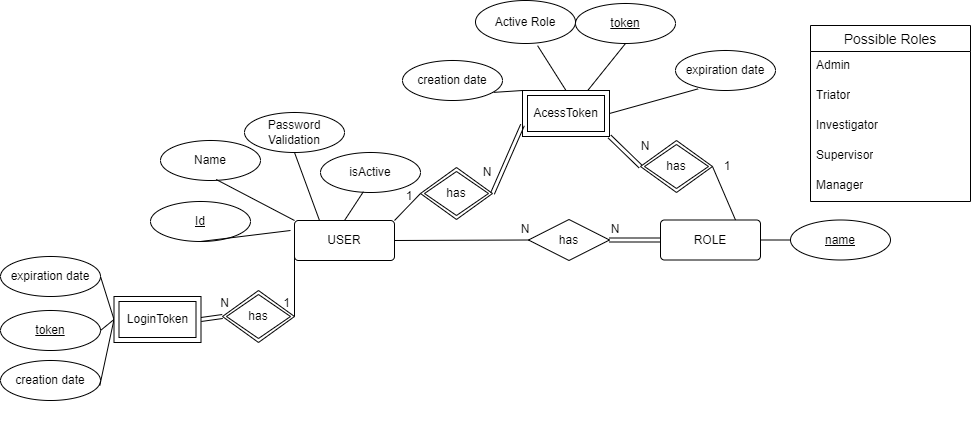
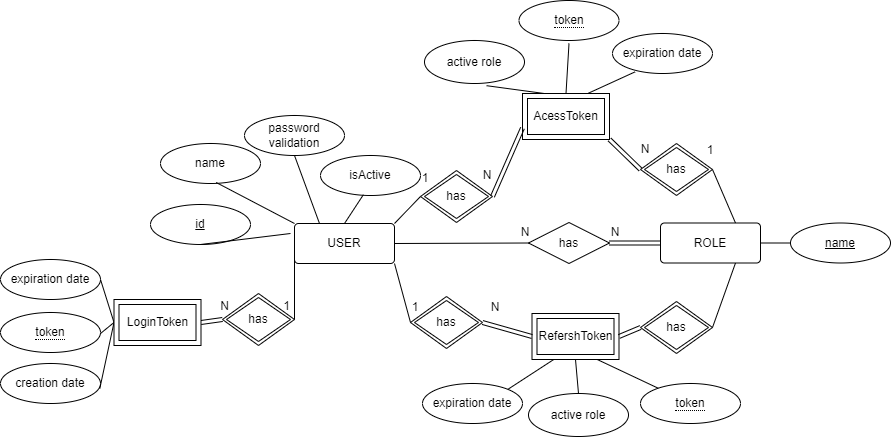
Modelo e dados finalizado e Estado da Arte

diff --git a/Docs/fase-beta-relatorio/solucao.tex b/Docs/fase-beta-relatorio/solucao.tex
@@ -3,12 +3,13 @@
 %
 \chapter{Solu\c{c}\~{a}o Proposta} \label{cap:solucao}
 
-Este capítulo está organizado em quatro secções onde se descreve o trabalho relacionado.
+Este capítulo apresenta detalhadamente a arquitetura, o modelo de dados e os detalhes de implementação da solução tecnológica desenvolvida. 
+O conteúdo encontra-se estruturado em quatro secções principais: a Secção 2.1 descreve a arquitetura geral do sistema baseada num modelo \textit{client-server} em camadas; a Secção 2.2 detalha o modelo de dados conceptual (Entidade-Associação) e as regras de negócio automatizadas na base de dados; a Secção 2.3 aborda a componente de \textit{backend}, focando-se no desenvolvimento com \textit{Spring Boot} e nos mecanismos de segurança e controlo de acessos (RBAC) com \textit{Spring Security}; por fim, a Secção 2.4 expõe a estrutura do servidor \textit{frontend} em \textit{React}, os seus componentes de proteção de rotas e as bibliotecas externas integradas.
 
 \section{Arquitetura}
 
-A Figura~\ref{fig:arquitetura_sistema} apresenta a arquitetura geral da aplicação desenvolvida no âmbito deste projeto. A solução foi concebida segundo um modelo de arquitetura \textit{client-server}, estruturado em diferentes camadas lógicas, de forma a garantir uma clara separação de responsabilidades e uma melhor organização do sistema.
-\textcolor{blue}{Deveriamos fazer referencia ao Vite e ao Gradle ?}
+Na Figura~\ref{fig:arquitetura_sistema} representa-se a arquitetura geral da aplicação desenvolvida no âmbito deste projeto. A solução foi concebida segundo um modelo de arquitetura \textit{client-server}, estruturado em diferentes camadas lógicas, de forma a garantir uma clara separação de responsabilidades e uma melhor organização do sistema.
+
 
 
 \begin{figure}[h]
@@ -20,7 +21,7 @@ A Figura~\ref{fig:arquitetura_sistema} apresenta a arquitetura geral da aplicaç
 
 
 
-De um modo geral, a arquitetura baseia-se na interação entre três grandes blocos: a camada de apresentação, a camada de lógica de negócio e a camada de persistência de dados. Esta organização permite isolar as preocupações de cada componente, facilitando a evolução independente das diferentes partes do sistema.
+De um modo geral, a arquitetura baseia-se na interação entre três grandes blocos: o \textit{frontend}, o \textit{backend} e a base de dados. Esta organização permite isolar as preocupações de cada componente, facilitando a evolução independente das diferentes partes do sistema.
 
 A comunicação entre os vários componentes é realizada através de uma \textit{API} baseada em serviços \textit{REST}, assegurando um modelo de interação padronizado e independente da tecnologia utilizada no \textit{frontend}. Adicionalmente, foram adotados mecanismos de segurança para controlo de acesso e autenticação de utilizadores, garantindo a proteção dos recursos da aplicação.
 
@@ -29,36 +30,29 @@ Esta abordagem arquitetural favorece a modularidade, escalabilidade e manutenibi
 
 \cleardoublepage
 \section{Modelo de dados}
+\subsection{Autenticação}
 
-A Figura~\ref{fig:modelo_ea_sem_atributos} demonstra o modelo Entidade-Associação desenvolvido de modo representar de forma conceptual a estrutura da base de dados.
+No que respeita ao conjunto de entidades responsável pela autenticação e autorização de utilizadores, existem cinco entidades principais: \textit{User}, \textit{AccessToken}, \textit{RefreshToken}, \textit{LoginToken} e \textit{Role}. O modelo conceptual e a estrutura destas componentes encontram-se ilustrados na Figura~\ref{fig:entidades_auth}.
 
-\begin{figure}[h]
-  \begin{center}
-    \includegraphics[width=1.1\textwidth]{./figures/modelo-ea-sem-atributos.png}
-  \end{center}
-  \caption{Modelo entidade-associação sem atributos.}\label{fig:modelo_ea_sem_atributos}
-\end{figure}
-\newpage
+Relativamente à entidade \textit{User}, esta é composta por um identificador único (\textit{id}), um nome (\textit{name}), uma \textit{string} correspondente ao \textit{hash} da palavra-passe do utilizador (\textit{password validation}) e um indicador responsável por informar se o utilizador se encontra ativo (\textit{isActive}).
 
-\subsection{Entidades sobre autenticação}
+No que concerne à entidade \textit{AccessToken}, esta é composta por um \textit{token}, uma data de expiração (\textit{expiration date}) e um papel ativo associado (\textit{active role}). O propósito fundamental do \textit{AccessToken} consiste em autenticar os pedidos do utilizador e, simultaneamente, identificar o papel específico (\textit{Role}) que este vai desempenhar durante aquela determinada sessão.
 
-No que respeita ao conjunto de entidades responsável pela autenticação e autorização de utilizadores, existem três entidades principais: \textit{User}, \textit{AccessToken} e \textit{Role}.
+A entidade \textit{RefreshToken} apresenta uma estrutura idêntica à do \textit{AccessToken}. No entanto, o seu propósito específico consiste em permitir a obtenção de um novo \textit{AccessToken} assim que este expire, garantindo a continuidade da sessão sem obrigar o utilizador a realizar um novo processo de \textit{login}.
 
-Relativamente à entidade \textit{User}, esta é composta por um identificador único (\textit{id}), um nome (\textit{name}), uma \textit{string} correspondente ao \textit{hash} da palavra-passe do utilizador (\textit{password validation}) e um indicador responsável por informar se o utilizador se encontra ativo.
+Relativamente ao \textit{LoginToken}, este apresenta uma estrutura semelhante à das entidades anteriores, distinguindo-se pelo facto de não possuir qualquer papel associado e de manter o atributo de data de criação (\textit{creation date}). Este atributo é fundamental para conseguir guardar o registo da última sessão do utilizador, permitindo à aplicação saber a última vez que este esteve \textit{online}. Adicionalmente, o \textit{LoginToken} serve exclusivamente para autenticar inicialmente o utilizador no sistema e permitir a verificação de todos os papéis (\textit{Roles}) que este tem disponíveis para assumir.
 
-No que concerne à entidade \textit{AccessToken}, esta é composta por um \textit{token} , uma data de criação (\textit{creation date}), uma data de expiração (\textit{expiration date}) e um papel ativo associado (\textit{active role}).
+A entidade \textit{Role} é constituída apenas por um nome (\textit{name}), o qual está estritamente limitado a cinco valores possíveis: \textit{Admin}, \textit{Triator}, \textit{Investigator}, \textit{Supervisor} e \textit{Manager}. Esta limitação a um conjunto fixo de valores funciona como uma restrição de domínio (semelhante a um tipo enumerado), garantindo a integridade dos dados ao impedir a criação de papéis arbitrários e assegurando que o controlo de acessos no sistema se restringe apenas às funções previstas pelas regras de negócio da aplicação.
 
-Relativamente ao \textit{LoginToken}, este apresenta uma estrutura semelhante à do \textit{AccessToken}, distinguindo-se pelo facto de não possuir qualquer papel associado.
+No que respeita às relações entre estas entidades, um utilizador pode estar associado a diferentes \textit{LoginToken}, \textit{AccessToken} e \textit{RefreshToken}, permitindo a autenticação e a manutenção da sessão do mesmo nas diferentes etapas da aplicação.
 
-A entidade \textit{Role} é constituída apenas por um nome (\textit{name}), limitado a cinco valores possíveis: \textit{Admin}, \textit{Triator}, \textit{Investigator}, \textit{Supervisor} e \textit{Manager}.
+Relativamente à relação entre as entidades de \textit{token} (\textit{AccessToken} e \textit{RefreshToken}) e a entidade \textit{Role}, esta existe devido à necessidade de o \textit{token} de acesso e de renovação transportarem informação acerca do papel desempenhado pelo utilizador durante uma determinada sessão.
 
-No que respeita às relações entre estas entidades, um utilizador pode estar associado a diferentes \textit{LoginToken} e \textit{AccessToken}, permitindo a autenticação do mesmo nas diferentes etapas da aplicação.
+No que concerne à relação entre \textit{User} e \textit{Role}, um utilizador pode possuir múltiplos papéis e, simultaneamente, o mesmo papel pode estar associado a diferentes utilizadores, caracterizando assim uma relação de $N$-para-$N$.\begin{figure}[h]
 
-Relativamente à relação entre \textit{AccessToken} e \textit{Role}, esta existe devido à necessidade de o \textit{token} de acesso transportar informação acerca do papel desempenhado pelo utilizador durante uma determinada sessão.
 
-No que concerne à relação entre \textit{User} e \textit{Role}, um utilizador pode possuir múltiplos papéis e, simultaneamente, o mesmo papel pode estar associado a diferentes utilizadores, caracterizando assim uma relação de muitos-para-muitos.
 
-\begin{figure}[h]
+
   \begin{center}
     \includegraphics[width=1.0\textwidth]{./figures/Entidades-auth.png}
   \end{center}
@@ -66,26 +60,43 @@ No que concerne à relação entre \textit{User} e \textit{Role}, um utilizador 
 \end{figure}
 \newpage
 
-\subsection{Entidade Processo e relações}
-\subsubsection{Processos e características}
-
+\subsection{Gestão de processos}
 
 
 No que respeita ao conjunto de entidades associado à gestão de processos, destacam-se as entidades \textit{Process}, \textit{Insurance}, \textit{State} e \textit{Location}. Estas entidades são responsáveis por representar a informação principal associada aos processos geridos pela aplicação, bem como o seu enquadramento, estado e classificação.
 
-Relativamente à entidade \textit{Process}, esta constitui a entidade central do domínio da aplicação. É composta por um identificador único (\textit{id}), um nome (\textit{name}), um nível de prioridade (\textit{priority}), uma data de criação (\textit{creation date}), uma data prevista de conclusão (\textit{due date}).
+Relativamente à entidade \textit{Process}, esta constitui a entidade central do domínio da aplicação. É composta por um identificador único (\textit{id}), um nome (\textit{name}), um nível de prioridade (\textit{priority}), uma data de inserção no sistema (\textit{creation date}), uma data prevista de conclusão (\textit{due date}).
 
 No que concerne à entidade \textit{Insurance}, esta representa a seguradora associada ao processo. É constituída por um identificador único (\textit{id}) e por um nome (\textit{name}).
 
-Relativamente à entidade \textit{State}, esta é responsável por representar o estado atual de um processo ao longo do seu ciclo de vida. É composta por um identificador único (\textit{id}), um nome (\textit{name}). Os estados possíveis encontram-se limitados a um conjunto predefinido de valores, tais como \textit{Not Assigned}, \textit{Assigned}, \textit{On Going}, \textit{Waiting Approval Supervisor}, \textit{Approved by Supervisor}, \textit{Rejected by Supervisor}, \textit{Waiting Approval Manager}, \textit{Approved by Manager}, \textit{Rejected by Manager} e \textit{Canceled}.
+Recorre-se à entidade \textit{State} para representar o estado atual de um processo ao longo do seu ciclo de vida, sendo esta composta por um identificador único (\textit{id}) e um nome (\textit{name}). Por forma a garantir o cumprimento estrito das regras de negócio, os estados possíveis encontram-se rigidamente delimitados a um conjunto predefinido de valores, cuja sequência operacional e transições lógicas estão ilustradas na Figura~\ref{fig:workflow_process_states}.
 
-Por fim, a entidade \textit{Location} representa a localização associada ao processo. Esta é composta por um identificador único (\textit{id}), o distrito (\textit{district}), o concelho (\textit{county}), a rua (\textit{street}), a latitude (\textit{latitude}) e a longitude (\textit{longitude}).
+\begin{figure}[htbp]
+  \begin{center}
+    \includegraphics[width=0.95\textwidth]{./figures/workflow-process-states.png}
+  \end{center}
+  \caption{Diagrama do \textit{workflow} e ciclo de vida dos estados de um processo.}\label{fig:workflow_process_states}
+\end{figure}
 
-No que respeita às relações entre estas entidades, um processo encontra-se associado a uma seguradora, podendo a mesma seguradora estar associada a múltiplos processos, caracterizando assim uma relação de um-para-muitos entre \textit{Insurance} e \textit{Process}.
+O fluxo inicia-se obrigatoriamente com a criação do processo no estado \textit{Not Assigned}. Assim que a equipa responsável é definida (averiguador e supervisor), o processo evolui para \textit{Assigned}. O ciclo operacional propriamente dito começa quando o averiguador inicia a recolha de provas e criação do relatório, alterando o estado para \textit{On Going}. Após a conclusão da recolha de dados e preenchimento dos relatórios, o averiguador submete o processo, o qual transita automaticamente para \textit{Waiting Approval Supervisor}.
 
-Relativamente à relação entre \textit{Process} e \textit{State}, um processo pode assumir diferentes estados ao longo do seu ciclo de vida, sendo possível que o mesmo estado esteja associado a diferentes processos. A cada relação entre estado e processo são armazenados a data de início (\textit{start date}) e a data de término (\textit{end date}).Esta relação permite representar a evolução e acompanhamento do processo dentro do sistema.
+A partir deste ponto crítico de validação, o \textit{workflow} ramifica-se de acordo com as decisões das hierarquias de supervisão e gestão:
+\begin{itemize}
+    \item \textbf{Fluxo de Supervisão:} O supervisor avalia o trabalho submetido. Caso identifique desconformidades, o processo passa para \textit{Rejected by Supervisor}, sendo forçado a retroceder diretamente para o estado \textit{On Going} de modo a permitir que o averiguador efetue as devidas correções. Se o parecer for positivo, o estado passa a \textit{Approved by Supervisor}, encaminhando o processo de imediato para a fila de verificação seguinte sob o estado \textit{Waiting Approval Manager}.
+    \item \textbf{Fluxo de Gestão:} O gestor (\textit{Manager}) assume a palavra final sobre o processo. Caso detete a necessidade de alterações profundas ou revisão, aplica o estado \textit{Rejected by Manager}, o que aciona um mecanismo de retorno ao estado de execução activa (\textit{On Going}). Havendo total conformidade com os requisitos institucionais, o gestor concede a validação definitiva, culminando no estado terminal de sucesso \textit{Approved by Manager}.
+\end{itemize}
 
-Por último, no que concerne à relação entre \textit{Process} e \textit{Location}, cada processo encontra-se associado a uma localização específica, enquanto uma localização pode estar associada a múltiplos processos.
+Adicionalmente, importa salvaguardar que, independentemente da fase em que se encontre na linha temporal descrita, qualquer processo pode ser cancelado a qualquer momento por decisão exclusiva do \textit{Manager}, assumindo nessa circunstância o estado de encerramento \textit{Canceled}.
+
+
+
+Por fim, a entidade \textit{Location} representa a localização associada ao sinistro. Esta é composta por um identificador único (\textit{id}), o distrito (\textit{district}), o concelho (\textit{county}), a rua (\textit{street}), a latitude (\textit{latitude}) e a longitude (\textit{longitude}).
+
+No que respeita às relações entre estas entidades, um processo encontra-se associado a uma seguradora, podendo a mesma seguradora estar associada a múltiplos processos, caracterizando assim uma relação de 1-para-N entre \textit{Insurance} e \textit{Process}.
+
+Relativamente à relação entre \textit{Process} e \textit{State}, um processo pode assumir diferentes estados ao longo do seu ciclo de vida, sendo possível que o mesmo estado esteja associado a diferentes processos. A cada relação entre estado e processo são armazenados a data de início (\textit{start date}) e a data de término (\textit{end date}), sendo que, caso seja o estado atual, este valor será nulo (\textit{null}).Esta relação permite representar a evolução e acompanhamento do processo dentro do sistema.
+
+Por último, no que concerne à relação entre \textit{Process} e \textit{Location}, cada processo de sinistro encontra-se associado a uma localização específica, enquanto uma localização pode registar várias ocorrências.
 
 
 \begin{figure}[h]
@@ -97,10 +108,77 @@ Por último, no que concerne à relação entre \textit{Process} e \textit{Locat
 
 \newpage
 
-\subsubsection{Processos, Relatório e Anexos}
-\textcolor{blue}{Pretendemos manter a estrutura para as restantes entidades e relações}
+\subsubsection{Documentação e Provas do Processo}
+
+No que respeita ao conjunto de entidades associado à documentação, relatórios e suporte probatório dos sinistros, destacam-se as entidades \textit{Report}, \textit{Prove} e \textit{Note}. Estas componentes são fundamentais para assegurar a recolha de evidências, o registo de observações contínuas e a formalização das conclusões obtidas ao longo da averiguação de um processo. A estrutura e o mapeamento relacional deste módulo encontram-se ilustrados na Figura~\ref{fig:entidades_report_notes}.
+
+\begin{figure}[htbp]
+  \begin{center}
+    \includegraphics[width=0.95\textwidth]{./figures/entidades-process-report-proves-notes.png}
+  \end{center}
+  \caption{Entidades de documentação, provas e notas do processo.}\label{fig:entidades_report_notes}
+\end{figure}
+
+Relativamente à entidade \textit{Report}, esta representa o relatório final detalhado pelo averiguador. É composta por um identificador único (\textit{id}), o conteudo do relatório (\textit{content}) e uma data de criação (\textit{creation date}) e, para caso seja necessário atualizar após a resposta dos superiores, uma data de modificação (\textit{updated at}). O propósito desta entidade é consolidar formalmente todas as conclusões para posterior apreciação por parte dos supervisores e gestores.
+
+No que concerne à entidade \textit{Prove}, esta destina-se ao armazenamento de evidências e elementos de prova recolhidos em sede de averiguação (tais como fotografias e vídeos). É constituída por um identificador único (\textit{id}), uma designação ou nome do ficheiro (\textit{file name}), o tipo de ficheiro (\textit{file type}), o \textit{url} que aponta para o recurso (\textit{file url}) e a respetiva data de carregamento (\textit{creation date}). Importa salientar que o propósito principal desta entidade consiste em armazenar o \textit{url} que aponta diretamente para o recurso pretendido, o qual se encontra alojado na base de dados documental \textit{MinIO}. Desta forma, assegura-se uma gestão eficiente e isolada de ficheiros de grande volume (\textit{blobs}), mantendo na base de dados relacional apenas a referência e os metadados necessários para a sua localização e associação ao processo.
+
+Por fim, a entidade \textit{Note} funciona como um histórico de anotações internas. Permite que qualquer utilizador associado a um processo deixe um comentário, observações pontuais ou notas de esclarecimento. Esta entidade é composta por um identificador único (\textit{id}), o conteúdo textual da nota (\textit{content}), a data do registo (\textit{creation date}) e o autor (\textit{author}).
+
+No que respeita às relações entre estas entidades e o módulo central do sistema, cada entidade \textit{Report} encontra-se vinculada a um único processo específico, estabelecendo-se uma relação de $1$-para-$1$ ou de $N$-para-$1$ com a entidade \textit{Process}, dependendo da permissão de múltiplos relatórios por sinistro.
+
+Relativamente à relação com a entidade \textit{Prove}, esta possui uma dependência direta com o processo ou com o relatório, garantindo que um \textit{Process} possa conter múltiplos elementos de prova associados, caracterizando uma relação de $1$-para-$N$.
+
+Por último, no que concerne à relação com a entidade \textit{Note}, esta apresenta-se associada de forma hierárquica ao \textit{Process}. Um único processo pode agregar múltiplas notas explicativas ao longo do seu ciclo de vida, definindo uma relação de $1$-para-$N$, o que viabiliza a criação de uma linha temporal auditável de comunicações e observações internas.
+
+
 \subsubsection{Processos, Área e Utilizador}
-\textcolor{blue}{Pretendemos manter a estrutura para as restantes entidades e relações}
+
+No que respeita ao conjunto de entidades responsável pela distribuição de tarefas, pela definição do âmbito de especialidade dos utilizadores e pelo registo de auditoria do sistema, destacam-se as entidades \textit{Process}, \textit{User}, \textit{Area} e \textit{Activity}. Estas componentes são essenciais para operacionalizar a alocação de peritos, segmentar as competências técnicas e manter um histórico imutável de todas as ações realizadas na plataforma. A estrutura destas interligações encontra-se representada na Figura~\ref{fig:entidades_process_user_area}.
+\begin{figure}[htbp]
+  \begin{center}
+    \includegraphics[width=0.85\textwidth]{./figures/Entidades-process-user-area.png}
+  \end{center}
+\caption{Mapeamento relacional incluindo processos, utilizadores, áreas de especialidade e atividades.}\label{fig:entidades_process_user_area}\end{figure}
+
+Relativamente à entidade \textit{Area}, esta destina-se a classificar o ramo ou a tipologia de sinistro sob a qual o processo se enquadra. É composta por um identificador único (\textit{id}), um nome descritivo da área de atuação (\textit{name}) e um código de classificação interna (\textit{area code}). O seu propósito é segmentar os processos de acordo com a natureza do incidente para garantir que são tratados por profissionais qualificados na matéria.
+
+No que concerne à entidade \textit{Activity}, esta funciona como um registo detalhado de auditoria das operações efetuadas no sistema. É composta por um identificador único (\textit{id}), a ação específica realizada sobre um determinado sinistro (\textit{action}), a data e hora do registo (\textit{creation date}) e uma descrição textual detalhada do evento (\textit{description}).
+
+No que concerne às relações entre estas entidades, a associação entre \textit{User} e \textit{Process} materializa a atribuição de responsabilidades dentro da aplicação. Um utilizador, consoante o seu papel, pode estar associado a múltiplos processos em simultâneo, e um processo pode envolver a participação de diferentes utilizadores ao longo do seu ciclo de vida, caracterizando uma relação de muitos-para-muitos ($N$-para-$N$). Nesta associação, são guardados dados como a data de atribuição (\textit{assignment date}) do utilizador ao respetivo caso.
+
+Relativamente à ligação entre as entidades \textit{User} e \textit{Area}, esta desdobra-se em dois relacionamentos distintos com propósitos e cardinalidades diferentes:
+\begin{itemize}
+    \item \textbf{Afetação à Área ($N$-para-$1$):} Determina a área de especialidade técnica e competência profissional à qual cada colaborador está afetado. Sob esta regra, cada utilizador pode estar estritamente associado a apenas uma única área de especialidade (por exemplo, pertencer exclusivamente ao ramo automóvel ou ao ramo de incêndios), enquanto uma mesma área de atuação pode contar com o suporte de múltiplos utilizadores aptos, caracterizando uma relação de muitos-para-um ($N$-para-$1$) da perspetiva do utilizador.
+    \item \textbf{Responsável pela Área ($1$-para-$1$):} Define de forma unívoca o utilizador que assume a chefia ou a responsabilidade máxima por uma determinada área de atuação. Trata-se de uma relação de um-para-um ($1$-para-$1$), garantindo que cada área possui apenas um responsável encarregue da sua coordenação.
+\end{itemize}
+
+Por último, no que concerne às relações associadas à entidade \textit{Activity}, esta interliga-se de forma fulcral com os utilizadores e os processos:
+\begin{itemize}
+    \item \textbf{Relação com \textit{User} ($1$-para-$N$):} Um utilizador pode realizar múltiplas ações ao longo do tempo, gerando várias atividades no sistema, ao passo que cada atividade está associada a apenas um utilizador autor. Esta ligação caracteriza uma relação de $1$-para-$N$, permitindo rastrear o autor de cada modificação.
+    \item \textbf{Relação com \textit{Process} ($1$-para-$N$):} Cada processo centraliza o seu próprio histórico operacional, acumulando múltiplas atividades ao longo do seu ciclo de vida, enquanto cada atividade individual pertence a um único processo. Define-se, assim, uma relação de $1$-para-$N$, o que viabiliza a consulta de uma linha temporal completa de eventos por cada sinistro.
+\end{itemize}
+
+
+\newpage
+
+
+\subsection{Modelo completo}
+
+A abordagem descrita permitiu deslocar determinadas regras críticas de consistência para a própria base de dados, reduzindo a dependência exclusiva da camada aplicacional para a validação de estados e garantindo um comportamento mais robusto e consistente do sistema.
+
+Como síntese de toda a estrutura relacional planeada, a Figura~\ref{fig:modelo_ea_sem_atributos} demonstra, de forma completa e integrada, o modelo Entidade-Associação global desenvolvido para suportar o ecossistema da aplicação.
+
+\begin{figure}[h]
+  \begin{center}
+    \includegraphics[width=1.0\textwidth]{./figures/modelo-ea-sem-atributos.png}
+  \end{center}
+  \caption{Modelo entidade-associação completo (sem atributos).}\label{fig:modelo_ea_sem_atributos}
+\end{figure}
+
+
+
+
 
 \subsection{Implementação}
 
@@ -110,7 +188,7 @@ A organização da base de dados encontra-se dividida em diferentes ficheiros \t
 
 Existe um ficheiro dedicado à criação da estrutura da base de dados, responsável pela definição das tabelas, relações, restrições de integridade e restantes objetos necessários ao modelo relacional. Para além deste, existem ficheiros específicos para o preenchimento inicial de tabelas contendo informação estática ou previamente conhecida, nomeadamente tabelas como \textit{State}, \textit{Role} e \textit{Area}. Este mecanismo permite garantir que determinados dados essenciais ao funcionamento do sistema se encontram disponíveis desde o momento da inicialização da aplicação.
 
-Adicionalmente, a base de dados integra um conjunto de \textit{triggers} responsáveis por automatizar determinadas regras de negócio diretamente ao nível da persistência de dados. Esta abordagem permite garantir consistência e integridade da informação independentemente da origem das operações efetuadas sobre a base de dados.
+Adicionalmente, a base de dados integra um conjunto de \textit{triggers} (gatilhos) responsáveis por automatizar determinadas regras de negócio diretamente ao nível da persistência de dados. A opção pela utilização de \textit{triggers} fundamenta-se na sua natureza reativa e orientada a eventos. Ao contrário das funções ou procedimentos armazenados tradicionais, que exigem uma invocação explícita através de código na camada aplicacional, os \textit{triggers} reagem de forma automática e imediata aquando da ocorrência de um evento específico na base de dados (como a inserção, modificação ou remoção de registos). Esta execução transparente garante que as regras críticas de integridade e consistência da informação são salvaguardadas de forma autónoma diretamente no motor do \textit{PostgreSQL}, independentemente de qual o serviço ou operação que originou o pedido.
 
 Um dos \textit{triggers} implementados é responsável por fechar automaticamente o estado anterior de um processo quando um novo estado é inserido na tabela de estados do processo. Desta forma, sempre que ocorre uma mudança de estado, o estado anteriormente ativo passa automaticamente a possuir uma data de fim associada.
 
@@ -121,11 +199,7 @@ Foi igualmente implementado um \textit{trigger} responsável por atualizar autom
 Por fim, foi implementado um mecanismo automático associado à criação e atribuição de processos. Após a inserção de um novo processo, é criado automaticamente o estado inicial correspondente. Caso o processo possua simultaneamente um investigador e um supervisor associados, o estado definido é \textit{assigned}; caso contrário, o sistema atribui automaticamente o estado \textit{not\_assigned}. Adicionalmente, quando um processo passa posteriormente a possuir investigador e supervisor definidos, um \textit{trigger} deteta essa alteração e insere automaticamente o estado \textit{assigned}.
 
 Esta abordagem permite deslocar determinadas regras críticas de consistência para a própria base de dados, reduzindo a dependência exclusiva da camada aplicacional para validação de estados e garantindo um comportamento mais robusto e consistente do sistema.
-
-
-
-
-
+\newpage
 
 
 

diff --git a/Docs/fase-beta-relatorio/introducao.tex b/Docs/fase-beta-relatorio/introducao.tex
@@ -52,7 +52,24 @@ De forma mais específica, definiram-se os seguintes objetivos:
 \end{itemize}
 
 \newpage
-\section{Estado da arte}
-\textcolor{blue}{Ainda vai ser feito/aceitamos sugestoes de referências.}
 
+
+\section{Estado da Arte}
+\label{sec:estado_da_arte}
+
+Existem diversas aplicações de \textit{workflow} e tecnologias de suporte disponíveis no mercado, de diferentes tipos. Fornecem uma variedade de recursos, padrões e funcionalidades para auxiliar a automação, segurança e otimização de fluxos de trabalho empresariais, dividindo-se nas seguintes categorias:
+
+\begin{itemize}
+    \item \textbf{Gestão de Processos e Dados Operacionais} -- Plataformas centralizadas permitem gerir a recepção e processamento uniforme de fluxos de trabalho que lidam com volumes crescentes de dados. O tratamento organizacional de informação em grande escala enquadra-se no conceito moderno de \textit{Big Data}, conforme definido formalmente pela \textit{Oracle}~\cite{oracle-bigdata}, exigindo a aplicação de técnicas fundamentais de extração e análise de conhecimento estruturado (\textit{data mining})~\cite{6547630}.
+    
+    \item \textbf{Arquitetura Web e Interface de Utilizador} -- No panorama de sistemas computacionais interligados através de redes rápidas~\cite{6824752}, o processamento de aplicações assenta nas bases lógicas fundamentais estabelecidas pelas arquiteturas computacionais clássicas~\cite{Neumann:1958:CB:578873}. A nível aplicacional, a engenharia contemporânea exige a utilização de estilos de programação limpos e modulares~\cite{Kernighan:1982:EPS:578130}, suportados por ecossistemas robustos de \textit{backend} como o \textit{Spring Boot}~\cite{spring-boot}. No ambiente de interface (\textit{frontend}), o desenvolvimento é enriquecido pela adoção de bibliotecas componentes visuais estandardizadas como o \textit{Material UI}~\cite{material-ui}, pela gestão dinâmica de feedback reativo através do \textit{notistack}~\cite{notistack}, e pelo suporte à internacionalização multi-idioma nativa via \textit{react-i18next}~\cite{react-i18next}.
+    
+    \item \textbf{Segurança e Controlo de Acessos} -- Mecanismos assentes no padrão de tokens digitais criptográficos constituem a base indispensável para a autenticação em APIs Web. A emissão, assinatura e validação segura de estruturas \textit{JSON Web Token} (JWT)~\cite{rfc-jwt} são garantidas tanto no servidor como no cliente através de módulos focados em encriptação como a biblioteca \textit{jose}~\cite{jose}. O ecossistema de segurança é consolidado através do framework \textit{Spring Security}~\cite{spring-security}, viabilizando a aplicação formal do modelo RBAC (\textit{Role-Based Access Control}) para restrição de rotas e funcionalidades por papéis operativos~\cite{nist-rbac}.
+    
+    \item \textbf{Persistência e Tradução de Dados} -- Sistemas de gestão de bases de dados garantem que as restrições de integridade transacional de um \textit{workflow} decorram sem condições de corrida. A otimização destes repositórios relacionais para buscas rápidas e indexação de metadados de utilizadores recorre a técnicas estruturadas de pesquisa aproximada em dicionários~\cite{Boytsov:2011:IMA:1963190.1963191}, mitigando também as restrições físicas de paginação no motor de persistência através de modelos eficientes de tradução de endereços virtuais em memória externa~\cite{Jurkiewicz:2015:MVA:2627368.2656337}.
+\end{itemize}
+
+Quanto à disponibilidade, licenciamento e custo destas soluções, o panorama varia substancialmente. Enquanto os ecossistemas de desenvolvimento e motores de persistência (\textit{Spring Boot, PostgreSQL, Material UI}) representam componentes de código aberto (\textit{open-source}) altamente robustos e livres de custos de licenciamento direto, as plataformas de \textit{workflow} verticais proprietárias de mercado exigem subscrições dispendiosas, calculadas muitas vezes pelo volume de utilizadores ou processos operacionais ativos.
+
+Apesar da existência deste tipo de aplicação ser muito ampla no mercado, este projeto focou-se em desenvolver algo específico para a instituição, preservando algumas funcionalidades genéricas para possível implementação por outras instituições ou empresas. Além disso, para a correta implementação de um software de \textit{workflow} documental, a escolha no mercado seria ou muito ambígua, ou envolveria mais do que um fornecedor, visto que não foi encontrado software de \textit{workflow} de momento no mercado que fornecesse todas as funcionalidades previstas deste projeto numa única aplicação.
 \section{Organização do documento}

diff --git a/Docs/fase-beta-relatorio/main.tex b/Docs/fase-beta-relatorio/main.tex
@@ -19,6 +19,15 @@
 \usepackage{algpseudocode}
 \usepackage{svg}
 \usepackage{xcolor}
+\usepackage{hyperref}
+
+\hypersetup{
+    colorlinks=true,
+    linkcolor=black,       % Fica discretamente preto, mas continua clicável
+    filecolor=black,
+    urlcolor=blue,         % Podem deixar apenas os URLs da internet a azul
+    citecolor=black,
+}
 \renewcommand{\algorithmicrequire}{\textbf{Dados: }}
 \renewcommand{\algorithmicensure}{\textbf{Resultado: }}
 
